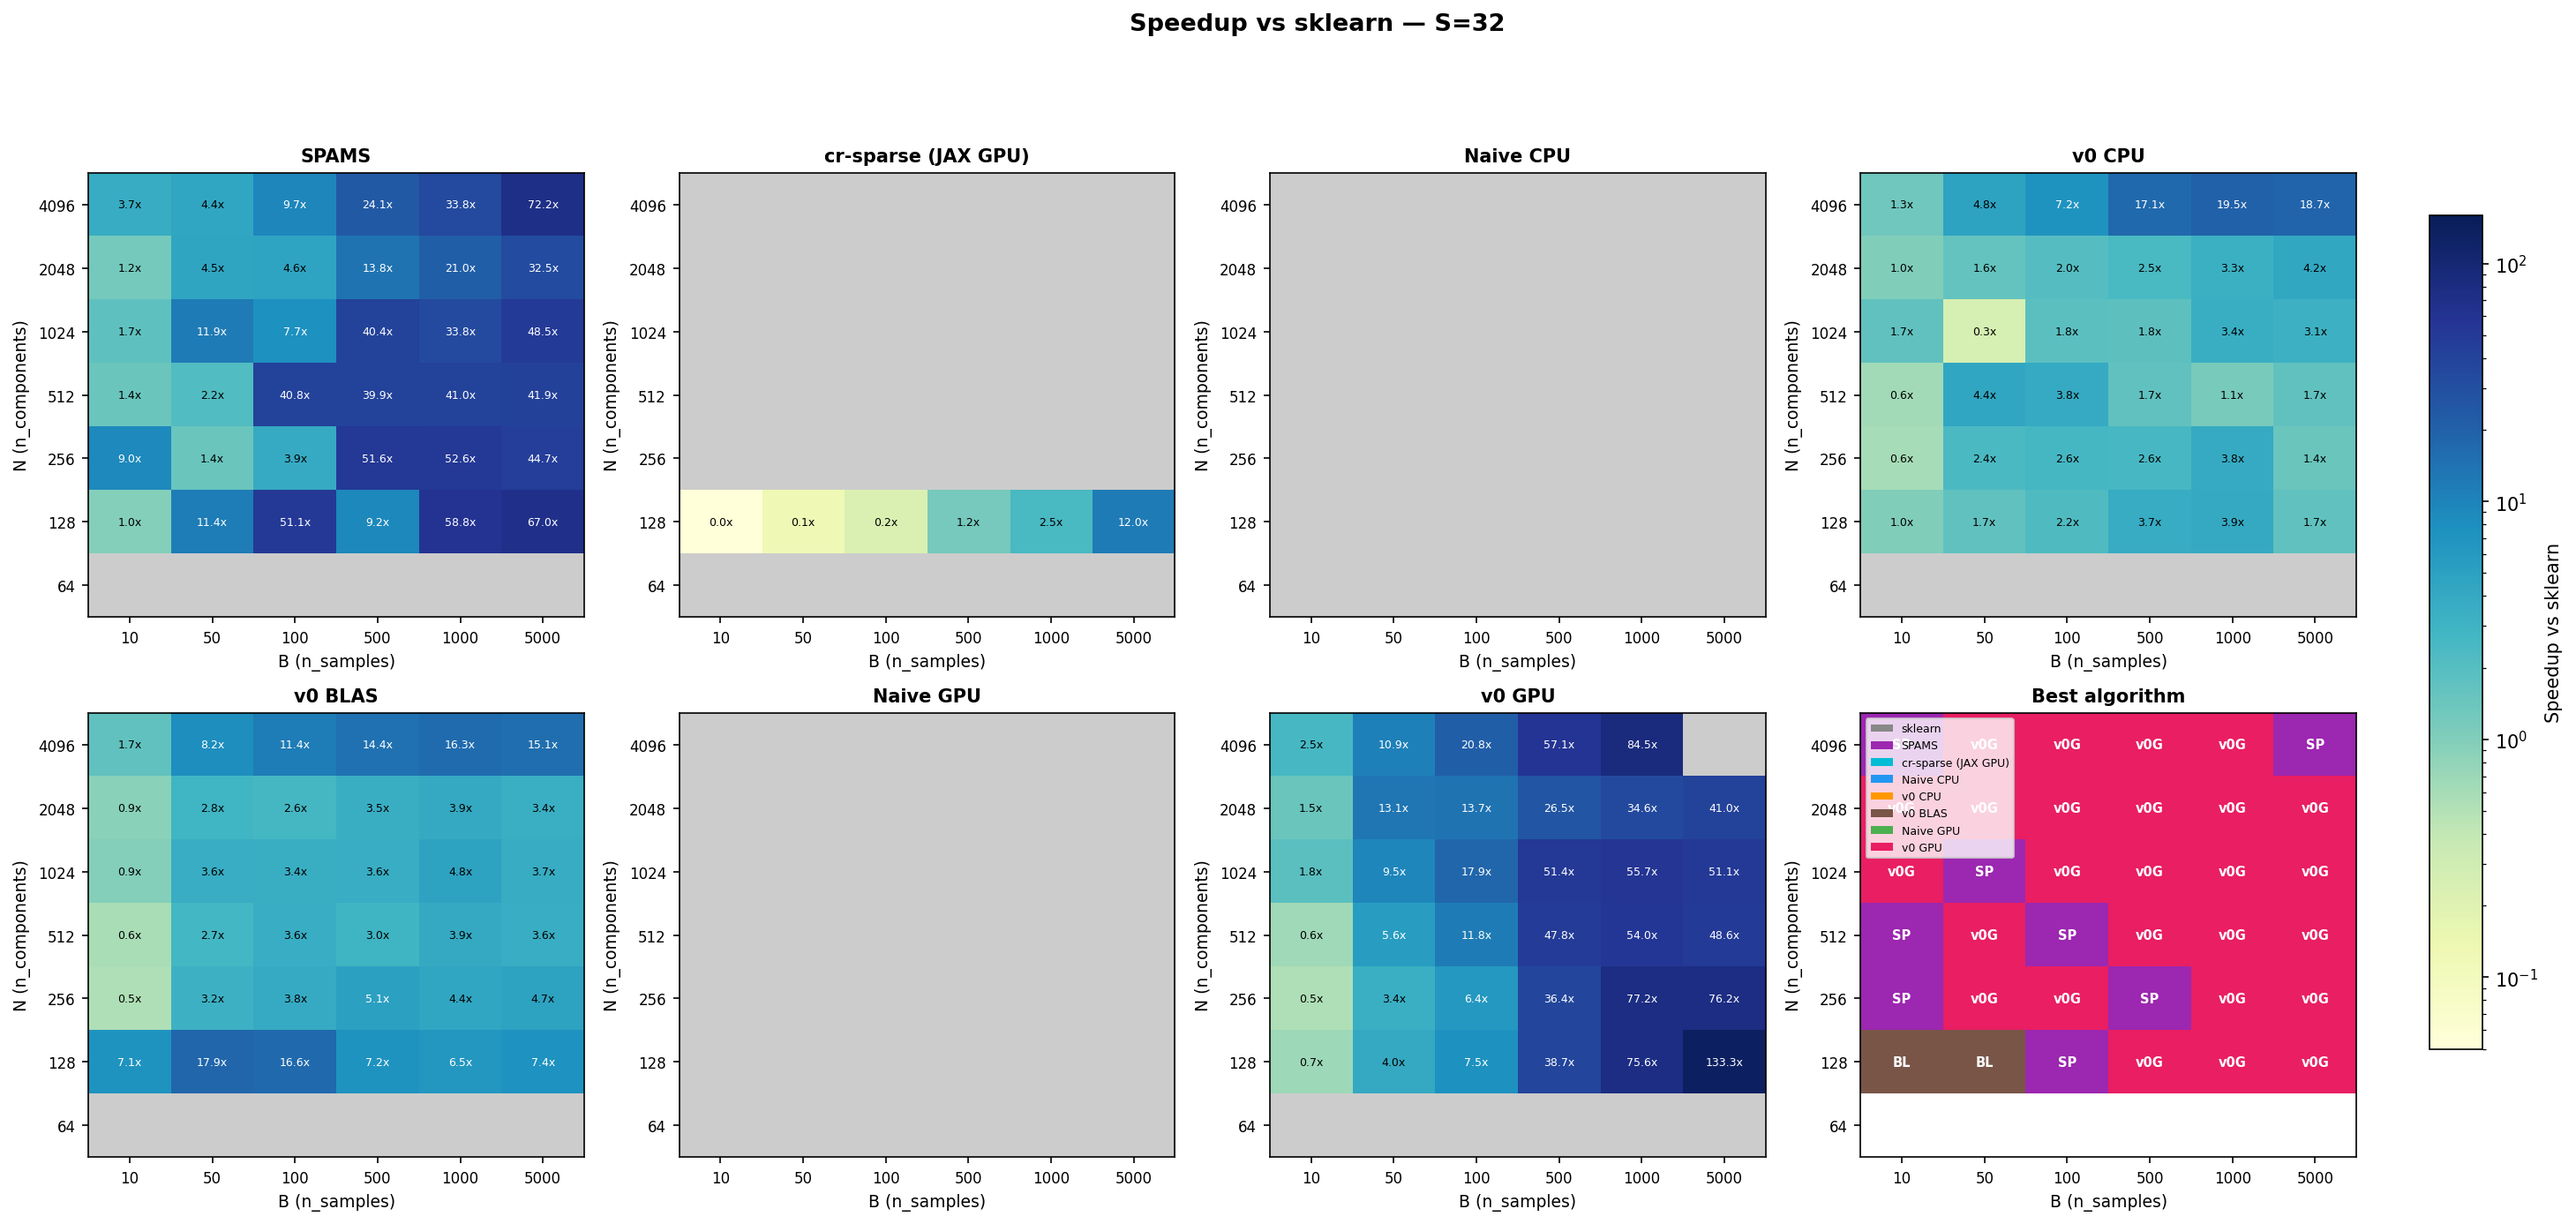
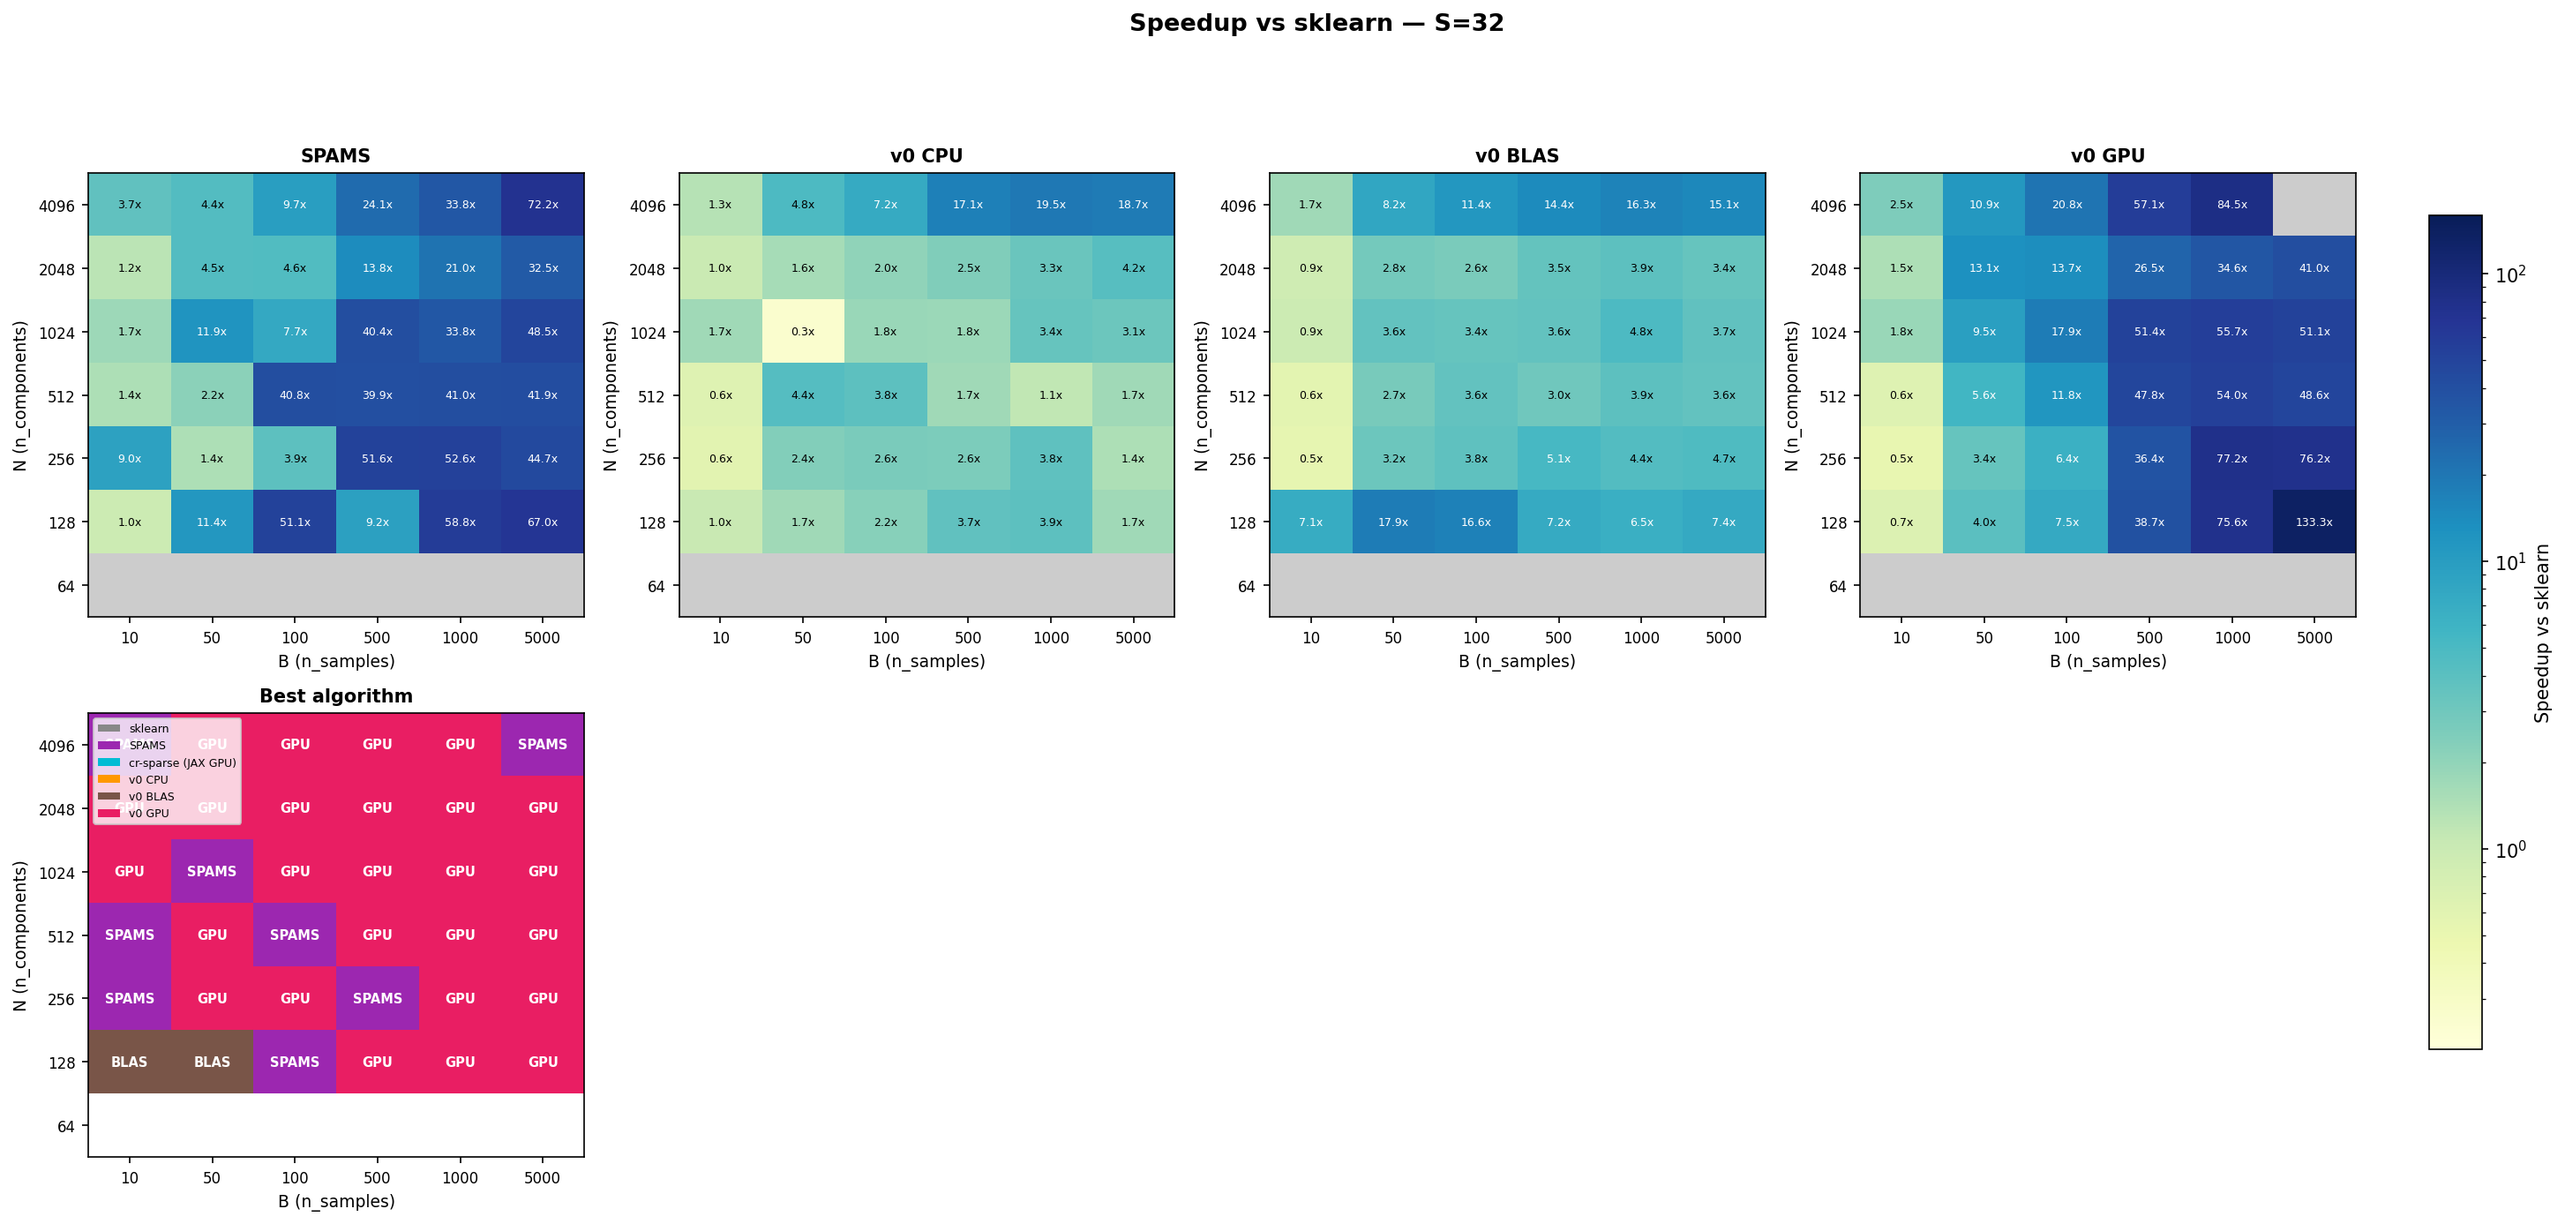
Improve best algorithm heatmaps

diff --git a/benchmarks/plot_sweep.py b/benchmarks/plot_sweep.py
@@ -30,13 +30,13 @@ LABELS = {
 }
 ABBREVS = {
     'sklearn':   'sk',
-    'spams':     'SP',
+    'spams':     'SPAMS',
     'cr_sparse': 'CR',
     'naive_cpu': 'nC',
     'v0_cpu':    'v0C',
-    'v0_blas':   'BL',
+    'v0_blas':   'BLAS',
     'naive_gpu': 'nG',
-    'v0_gpu':    'v0G',
+    'v0_gpu':    'GPU',
 }
 
 
@@ -182,7 +182,9 @@ def plot_sweep_heatmaps(data, output_dir, baseline='sklearn'):
         every_alg = [a for a in every_alg if a != 'cr_sparse']
 
     # Speedup heatmaps exclude baseline (you don't plot "X vs X")
-    all_algs = [a for a in every_alg if a != baseline]
+    # Also exclude cr_sparse and naive variants — not useful for users
+    skip_from_speedup = {baseline, 'cr_sparse', 'naive_cpu', 'naive_gpu', 'sklearn'}
+    all_algs = [a for a in every_alg if a not in skip_from_speedup]
 
     baseline_label = LABELS.get(baseline, baseline)
     n_algs = len(all_algs)
